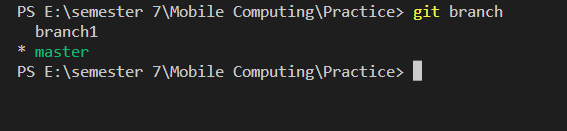
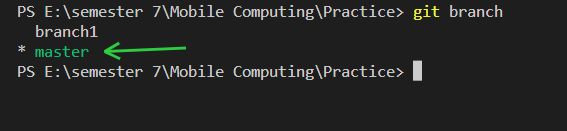
adding Branching content

Changed region(s): [[0.1799, 0.3053, 0.3298, 0.458]]

diff --git a/index.html b/index.html
@@ -121,7 +121,7 @@
             <li>git clone</li>
             <li>git push</li>
             <li>git pull</li>
-            <li>git branch</li>
+            <li>Branches</li>
             <li>git merge</li>
         </ul>
     </div>
@@ -196,7 +196,36 @@
             </p>
             <img src="/images/gitclone.png" style="display:flex; height:15rem; width:50rem">
         </li>
-        </ol>
+        <li class="gitCommandsLi">
+            <h3>git push</h3>
+            <p class="sections_p">
+                The git push command is used to upload local repository content to a remote repository. Pushing is how you transfer commits from your local repository to a remote repository.After a local repository has been modified a push is executed to share the modifications with remote team members.
+                Here git push add all the changes to remote repository.
+            </p>
+            <img src="/images/git push.png" style="display:flex; height:15rem; width:50rem">
+        </li>
+        <li class="gitCommandsLi">
+            <h3>git pull</h3>
+            <p class="sections_p">
+                Using the git pull command, you may quickly update your local repository with the content you just downloaded from a remote repository. In Git-based collaboration work processes, merging remote upstream changes into your local repository is a typical task.
+            </p>
+        </li>
+        <li class="gitCommandsLi">
+            <h3>Branched</h3>
+            <h3><u>What is branching?</u></h3>
+            <p class="sections_p">
+                Branching is a feature available in most modern version control systems.Branching can also be done in git.Brancheds are useful when you are not sure on the changes you are going to make in the files is correct or not. Once it is confirmed that the changes are right you can link/merge that branch to the main branch that is the master branch.
+                <br>
+                <img src="/images/gitbranch.png" style="display:flex; height:20rem; width:50rem">
+            </p>
+            <p>
+                The illustration depicts a repository with two separate lines of development, one for a quick feature and the other for a more involved one. The ability to work on both of them simultaneously is made possible by developing them in separate branches, which also prevents shady code from entering the main branch.
+            </p>
+        </li>
+
+
+      </ol>
+
     </div>
 
     <button
